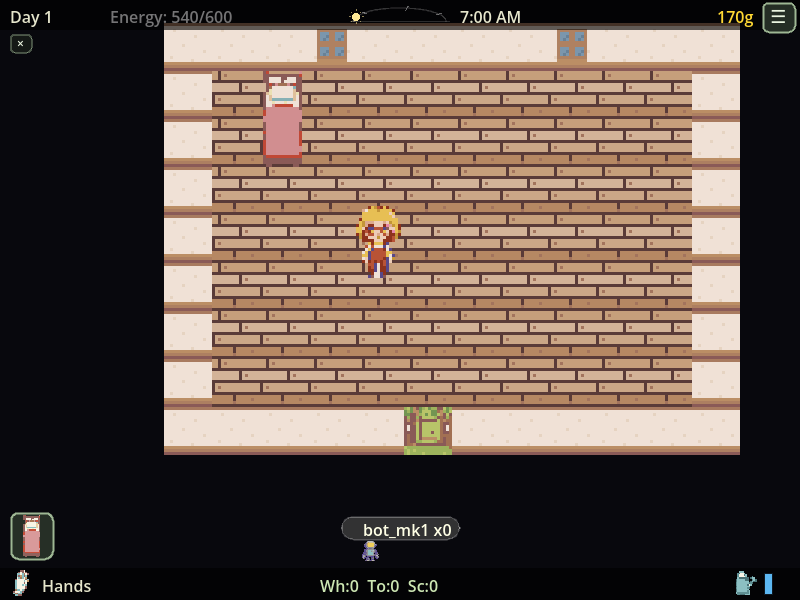
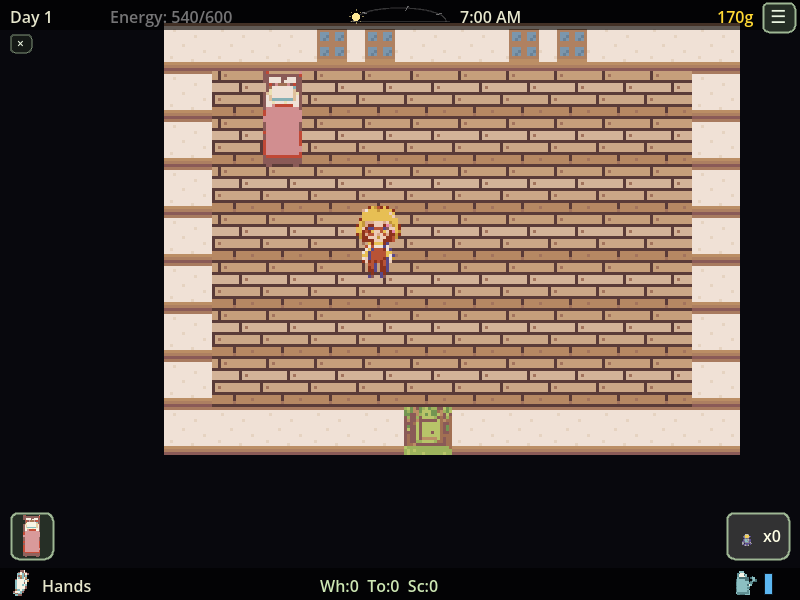
The screen is strips and corners: the held-item card, and the map out from under the bar
Two findings from the second live tablet session (designer, 2026-09-08),
watching a repeat player:

The held-item pill was too small a target for a thumb on glass — T-22's
known risk, met by a real finger. It is now a card in the bottom-right
corner: the bed button's mirror in styling and size, deliberately the far
corner so the two tappable controls are never neighbours. The words went
with the pill — the icon is the identity, the count is digits (S-7) — which
retires the word-fitting machinery the pill needed. The build watermark
yields the corner.

And the bottom bar no longer covers the map's last rows: the camera owes the
map back every row a strip covers (Q-68's top nudge, mirrored at the bottom
edge, both pages).

The layout method is now written where it governs: design/11's HUD section —
strips hold readouts, corners hold cards, the centre band is the game's.
Scenario AD re-proves the card's corner, target size, separation and wordless
face; camera assertions gain _expected_camera_bottom. Visual baseline re-cut.

diff --git a/docs/design/11-ux-ui.md b/docs/design/11-ux-ui.md
@@ -409,8 +409,27 @@ question, whether or not the interaction that reads it is one of the lifted rows
    the 2026-08-28 finding that the vignette teaches verbs rather than goals. Still
    wordless, still `[Playtest]`-refereed by the 4-year-old, still no reading in the core
    loop (S-7). Open rulings Q-32–Q-36 live there.
-3. **HUD** — current: energy, gold, day, tools (`ui/hud.gd`). To spec: phase-scalable
-   HUD (what appears as systems unlock; screen real estate on phones).
+3. **HUD** — ✅ layout method ruled from live play, 2026-09-08 (the second tablet
+   session; both findings were the designer's, watching a repeat player). Still to
+   spec: phase-scalable HUD (what appears as systems unlock).
+
+   **The screen is strips and corners, and the map is never under either.**
+   - **Strips.** A thin bar top and bottom belongs to the HUD alone — readouts,
+     counts, gauges. The camera owes the map back every row a strip covers: the
+     top bar has done this since Q-68 (the camera's top limit is nudged so row 0
+     clears the bar), and the bottom bar now does the same at the map's bottom
+     edge. A strip may hold small *readouts* only; nothing in a strip is a
+     primary touch target.
+   - **Corners.** Anything a finger must hit is a **card in a corner**: the bed
+     button's look (dark panel, light border, rounded, ~44×48 minimum — T-22's
+     tap-target floor), a wordless face (icon + digits, S-7), one card per
+     corner, and corners assigned so two tappable cards are never neighbours —
+     the bed button holds bottom-left, the held-item card bottom-right. A thin
+     pill was tried and a real thumb missed it; pills are retired for anything
+     tappable.
+   - **The centre band is the game's.** Between the strips, overlays are modal
+     and temporary (teaching controls, toasts) and must move out of the field
+     they talk about (the Altitude section's rule).
 4. **Kid mode boundary (P-2)** — phase 1 kid-bound; the "sandbox farm" relaxed mode
    spec; what settings a parent sets (session limits? energy off?).
 5. **Scent overlay (P-10/D-4)** — toggle UX, color mapping (with 09), when the game
